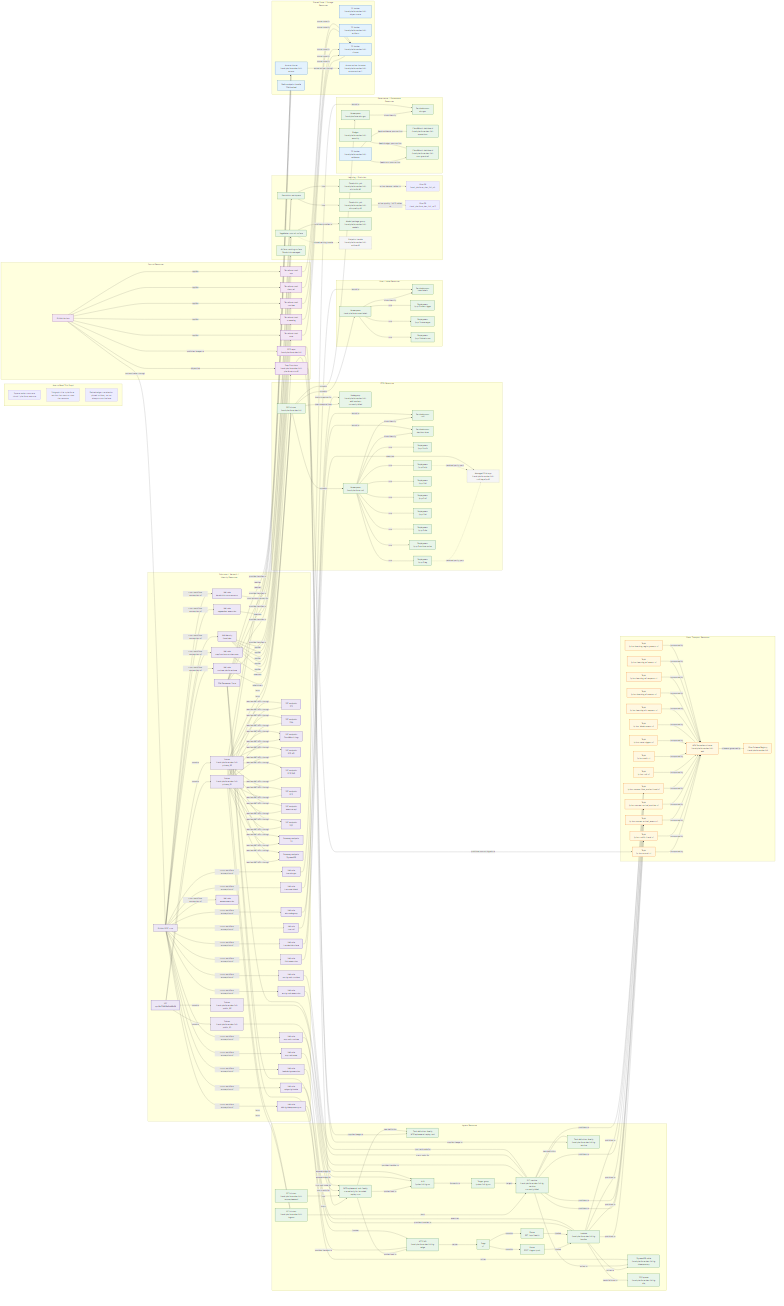
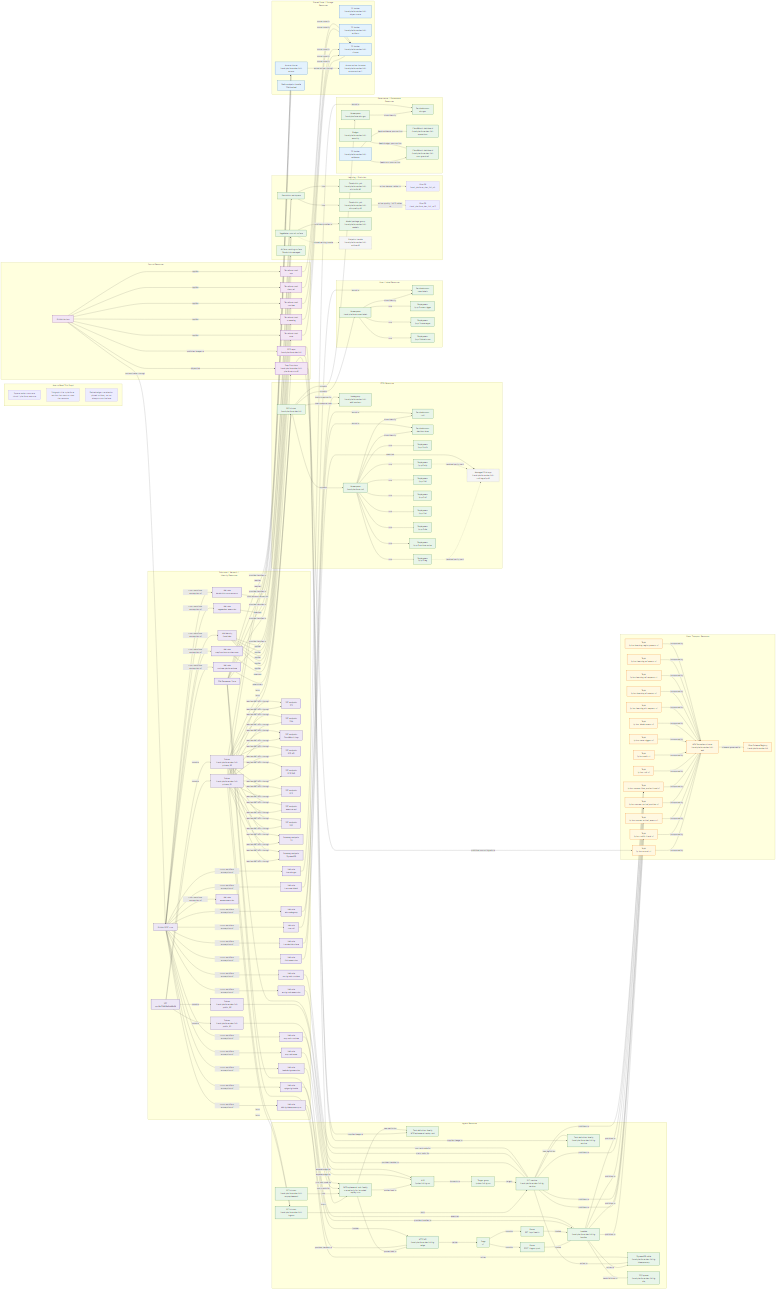
Update dev_full platform graphs to reflect implemented topology and remove idle labels

diff --git a/docs/logbook/03-2026/2026-03-09.md b/docs/logbook/03-2026/2026-03-09.md
@@ -604,3 +604,8 @@
 - Replaced ambiguous unlabeled arrows with explicit edge contracts such as `dispatches`, `publishes`, `consumed by`, `writes`, `stored in`, `provides handles to`, `trusts workflow assumption of`, and `retained managed parity`.
 - Removed the separate `IDLE` node from the main graph set; idle posture is now represented directly in the relevant resource labels (for example ingress ECS service and EKS nodegroup are marked as currently idled) rather than as a confusing pseudo-component.
 - Rerendered all PNG companions after the Mermaid source updates.
+## 14:49 Graph posture correction
+- Updated the system, runtime, and resource Mermaid graphs to represent provisioned/implemented `dev_full` topology rather than temporary scale-down posture.
+- Removed labels such as `idled 0/0`, `idled to zero`, and `currently idled` from graph nodes.
+- Reworded the system graph header comment from idle-snapshot wording to implemented-topology wording.
+- Rerendered the affected PNG companions.
